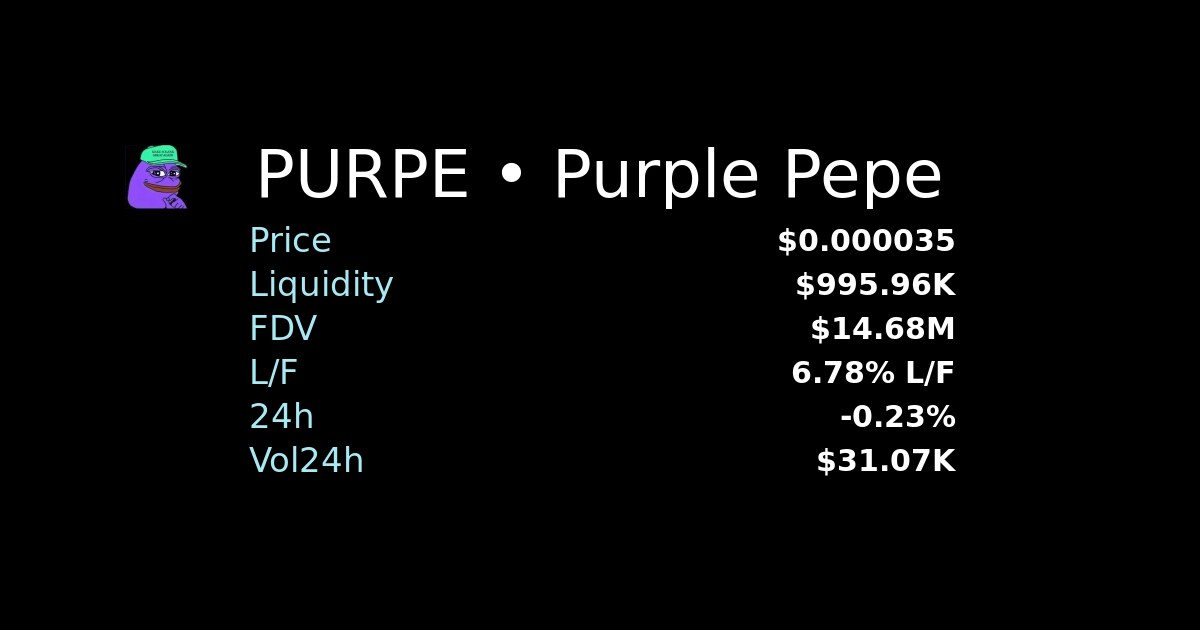
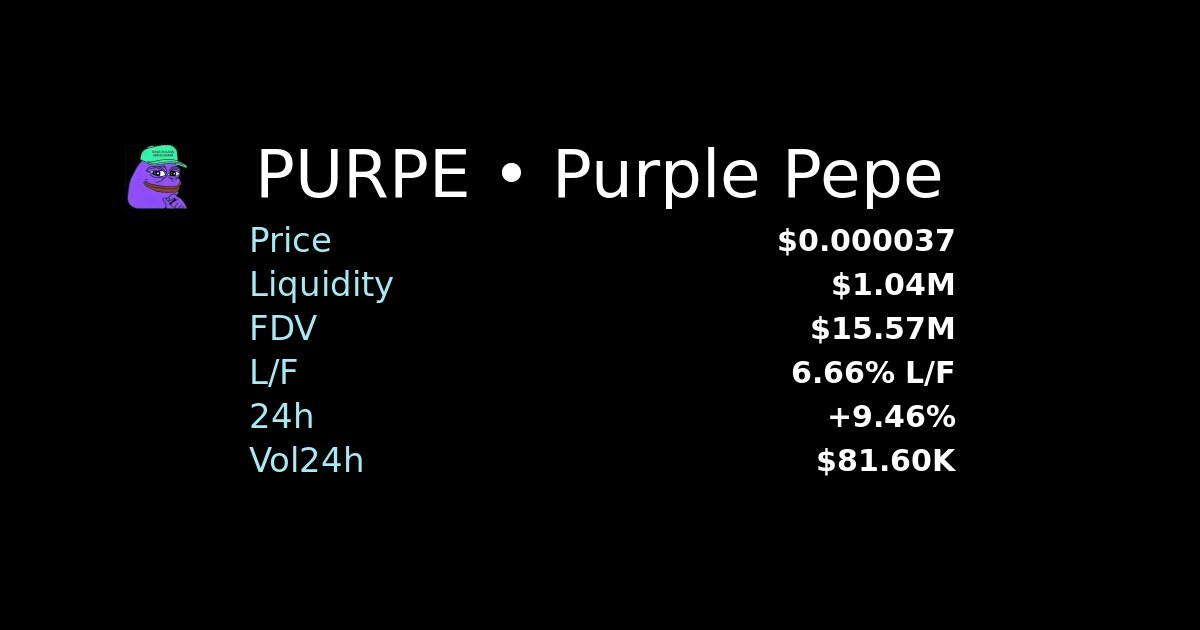
chore: update sitemap & token pages

diff --git a/token/HBoNJ5v8g71s2boRivrHnfSB5MVPLDHHyVjruPfhGkvL/index.html b/token/HBoNJ5v8g71s2boRivrHnfSB5MVPLDHHyVjruPfhGkvL/index.html
@@ -4,14 +4,14 @@
     <meta charset="utf-8" />
     <meta name="viewport" content="width=device-width,initial-scale=1" />
     <title>PURPE on Solana</title>
-    <meta name="description" content="Purple Pepe • Price: $0.000035 • Liquidity: $995.96K" />
+    <meta name="description" content="Purple Pepe • Price: $0.000037 • Liquidity: $1.04M" />
     <meta name="author" content="builders-toronto" />
     <meta name="keywords" content="solana, memecoin, bonk, wif, dog, inu, pepe, cat, meme, ponk, samo, purry, purr, kitty, meow, woof, frog, snek, toad, bob, dino, monke, monkey, ape, corgi, floki, elon" />
 
     <!-- OG -->
     <meta property="og:type" content="website" />
     <meta property="og:title" content="PURPE on Solana" />
-    <meta property="og:description" content="Purple Pepe • Price: $0.000035 • Liquidity: $995.96K" />
+    <meta property="og:description" content="Purple Pepe • Price: $0.000037 • Liquidity: $1.04M" />
     <meta property="og:url" content="https://fdv.lol/token/HBoNJ5v8g71s2boRivrHnfSB5MVPLDHHyVjruPfhGkvL" />
     <meta property="og:image" content="https://fdv.lol/token/HBoNJ5v8g71s2boRivrHnfSB5MVPLDHHyVjruPfhGkvL/og.jpg" />
     <meta property="og:image:width" content="1200" />
@@ -21,7 +21,7 @@
     <!-- Twitter -->
     <meta name="twitter:card" content="summary_large_image" />
     <meta name="twitter:title" content="PURPE on Solana" />
-    <meta name="twitter:description" content="Purple Pepe • Price: $0.000035 • Liquidity: $995.96K" />
+    <meta name="twitter:description" content="Purple Pepe • Price: $0.000037 • Liquidity: $1.04M" />
     <meta name="twitter:image" content="https://fdv.lol/token/HBoNJ5v8g71s2boRivrHnfSB5MVPLDHHyVjruPfhGkvL/og.jpg" />
 
     <link rel="icon" type="image/png" href="/src/assets/images/icons/fdv.lol.ico" />
@@ -35,7 +35,7 @@
       "@type": "WebSite",
       "name": "PURPE on Solana",
       "url": "https://fdv.lol/token/HBoNJ5v8g71s2boRivrHnfSB5MVPLDHHyVjruPfhGkvL",
-      "description": "Purple Pepe • Price: $0.000035 • Liquidity: $995.96K",
+      "description": "Purple Pepe • Price: $0.000037 • Liquidity: $1.04M",
       "keywords": [
         "solana",
         "memecoin",
